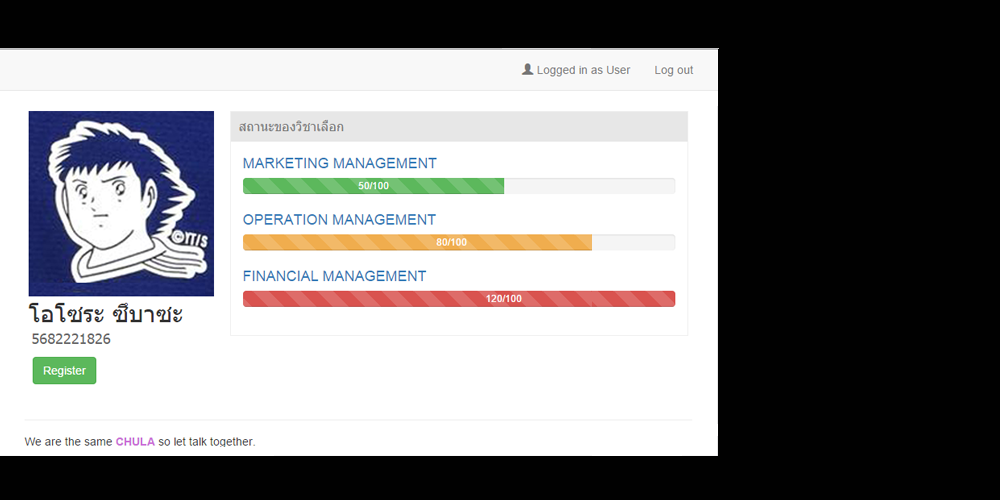
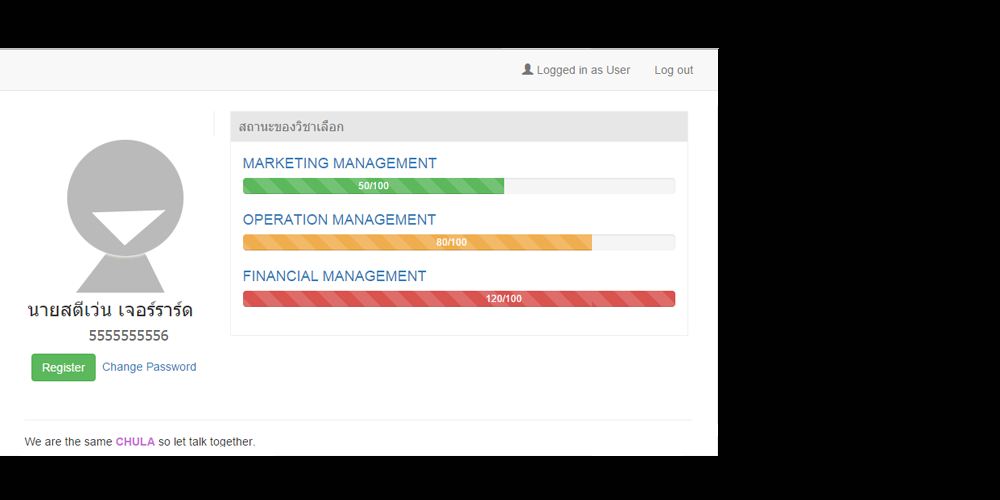
-Add 'Subject_id' in front of 'Subject' at 'user_dashboard.html' page -Update profile picture -Remove modal to change profile picture -Update picture at 'index.html' page

Changed region(s): [[0.031, 0.21, 0.217, 0.78]]

diff --git a/pages/user_dashboard.html b/pages/user_dashboard.html
@@ -21,19 +21,6 @@
             width:232px;
             position: relative;
         }
-        .profile_image:hover{
-            border: 1px solid #666;
-            cursor: pointer;
-        }
-        
-         .bannerChangeImage{
-            position: absolute; 
-            color: #fff; 
-            top:0; 
-            padding: 0px 5px 0px 5px; 
-            background: green;
-            display: none;
-         }
     </style>
   </head>
 
@@ -64,17 +51,15 @@
             <tr>
                 <td style='width: 250px; vertical-align:top;'>
                     <div style='font-family: Tahoma; margin-top: 5px; margin-left: 5px;'>
-                        <div class='profile_image' data-toggle="modal" data-target="#modalUploadImage">
-                            <image  src='../images/ozoraT.png' style='width:230px; height:230px;' />
-                            <div class='bannerChangeImage'>Change your image</div>
+                        <div class='profile_image'>
+                            <image  src='../images/profile.png' style='width:230px; height:230px;' />
                         </div>
-                        <span style='font-size: 30px; color: #333; line-height:40px; width: 100%; display: block;' class='studentName'>โอโซระ ซึบาซะ</span>
-                        <span style='font-size: 18px; color: #666; margin-left: 4px;' class='studentId'>5682221826</span>
-                        <br>
-                        <span style='font-size: 14px; color: #666; margin-left: 4px; margin-top:4px' data-toggle="modal" data-target="#modalChangePassword"><a href='#'>Change Password</a></span>
+                        <span style='font-size: 24px; color: #333; line-height:40px; width: 100%; display: block;' class='studentName'>โอโซระ ซึบาซะ</span>
+                        <div style='font-size: 18px; color: #666; margin-left: 4px; text-align:center;' class='studentId'></div>
                     </div>
                     <div style='padding:10px;'>
                         <input type='button' class="btn btn-success" onClick='moveToRegisterPage();' value='Register' />
+                        <div style='font-size: 14px; color: #666; margin-left: 4px; margin-top:4px; display:inline-block;' data-toggle="modal" data-target="#modalChangePassword"><a href='#'>Change Password</a></div>
                     </div>
                 </td>
                 <td style='vertical-align: top; padding: 5px;'>
@@ -95,14 +80,12 @@
             <tr>
                 <td style='width: 250px; vertical-align:top;'>
                     <div style='font-family: Tahoma; margin-top: 5px; margin-left: 5px;'>
-                        <div class='profile_image' data-toggle="modal" data-target="#modalUploadImage">
-                            <image  src='../images/ozoraT.png' style='width:230px; height:230px;' />
-                            <div class='bannerChangeImage'>Change your image</div>
+                        <div class='profile_image'>
+                            <image  src='../images/profile.png' style='width:230px; height:230px;' />
                         </div>
-                        <span style='font-size: 30px; color: #333; line-height:40px; width: 100%; display: block;' class='studentName'>โอโซระ ซึบาซะ</span>
-                        <span style='font-size: 18px; color: #666; margin-left: 4px;' class='studentId'>5682221826</span>
-                        <br>
-                        <span style='font-size: 14px; color: #666; margin-left: 4px; margin-top:4px' data-toggle="modal" data-target="#modalChangePassword"><a href='#'>Change Password</a></span>
+                        <span style='font-size: 24px; color: #333; line-height:40px; width: 100%; display: block;' class='studentName'>โอโซระ ซึบาซะ</span>
+                        <div style='font-size: 18px; color: #666; margin-left: 4px; text-align: center' class='studentId'></div>
+                        <div style='font-size: 14px; color: #666; margin-left: 4px; margin-top:4px; text-align: center;' data-toggle="modal" data-target="#modalChangePassword"><a href='#'>Change Password</a></div>
                     </div>
                 </td>
                 <td style='vertical-align: top; padding: 5px;'>
@@ -111,7 +94,6 @@
                           <h3 class="panel-title">สรุปผลการเลือกวิชา</h3>
                         </div>        
                         <div class="panel-body" id="appendSubjectResult">
-                        
                         </div>
                     </div>
                 </td>
@@ -123,14 +105,12 @@
             <tr>
                 <td style='width: 250px; vertical-align:top;'>
                     <div style='font-family: Tahoma; margin-top: 5px; margin-left: 5px;'>
-                        <div class='profile_image' data-toggle="modal" data-target="#modalUploadImage">
-                            <image  src='../images/ozoraT.png' style='width:230px; height:230px;' />
-                            <div class='bannerChangeImage'>Change your image</div>
+                        <div class='profile_image'>
+                            <image  src='../images/profile.png' style='width:230px; height:230px;' />
                         </div>
-                        <span style='font-size: 30px; color: #333; line-height:40px; width: 100%; display: block;' class='studentName'>โอโซระ ซึบาซะ</span>
-                        <span style='font-size: 18px; color: #666; margin-left: 4px;' class='studentId'>5682221826</span>
-                        <br>
-                        <span style='font-size: 14px; color: #666; margin-left: 4px; margin-top:4px' data-toggle="modal" data-target="#modalChangePassword"><a href='#'>Change Password</a></span>
+                        <span style='font-size: 24px; color: #333; line-height:40px; width: 100%; display: block;' class='studentName'>โอโซระ ซึบาซะ</span>
+                        <div style='font-size: 18px; color: #666; margin-left: 4px; text-align: center;' class='studentId'></div>
+                        <div style='font-size: 14px; color: #666; margin-left: 4px; margin-top:4px; text-align: center;' data-toggle="modal" data-target="#modalChangePassword"><a href='#'>Change Password</a></div>
                     </div>
                 </td>
                 <td style='vertical-align: top; padding: 5px;'>
@@ -143,33 +123,6 @@
             </tr>
         </table>
         
-        <!-- MODAL UPLOAD IMAGE -->
-        <div class="modal fade" id="modalUploadImage" tabindex="-1" role="dialog" aria-labelledby="myModalLabel" aria-hidden="true">
-          <div class="modal-dialog">
-            <div class="modal-content">
-              <div class="modal-header">
-                <button type="button" class="close" data-dismiss="modal" aria-label="Close"><span aria-hidden="true">&times;</span></button>
-                <h4 class="modal-title" id="myModalLabel" style='font-weight:bold'>Upload your image</h4>
-              </div>
-              <div class="modal-body" style='text-align:center'>
-                    <div class="fileinput fileinput-new" data-provides="fileinput">
-                      <div class="fileinput-new thumbnail" style="width: 230px; height: 230px; background:#efefef">
-                      W230 x H230
-                      </div>
-                      <div class="fileinput-preview fileinput-exists thumbnail" style="max-width: 230px; max-height: 230px;"></div>
-                      <div>
-                        <span class="btn btn-default btn-file"><span class="fileinput-new">Select image</span><span class="fileinput-exists">Change</span><input type="file" name="..."></span>
-                        <a href="#" class="btn btn-default fileinput-exists" data-dismiss="fileinput">Remove</a>
-                      </div>
-                    </div>
-              </div>
-              <div class="modal-footer">
-                <button type="button" class="btn btn-primary" data-dismiss="modal">Confirm</button>
-              </div>
-            </div>
-          </div>
-        </div>
-
         <!-- MODAL CHANGE PASSWORD -->
         <div class="modal fade" id="modalChangePassword" tabindex="-1" role="dialog" aria-labelledby="myModalLabel" aria-hidden="true">
           <div class="modal-dialog">
@@ -224,15 +177,6 @@
         var student_id = '';
 
         $(document).ready(function () {
-            $('.profile_image').hover( 
-                function(){
-                        $('.bannerChangeImage').css('display','block');
-                }, 
-                function(){
-                        $('.bannerChangeImage').css('display','none');
-                }
-            );
-            //
             getUserInformation( window.location.search.split('?id=')[1] );
         });
         //
@@ -273,7 +217,7 @@
                                 aElement.setAttribute('data-parent', '#accordion');
                                 aElement.setAttribute('href', '#collapse' + i );
                                 aElement.style.fontSize = '18px';
-                                aElement.innerHTML = data[2].subjectlist[i].name ;
+                                aElement.innerHTML = '[' + $.trim( data[2].subjectlist[i].subject_id ) + ']-' + data[2].subjectlist[i].name ;
                                 accordionElement.appendChild( aElement );
                                 
                                 var collapseElement = document.createElement('div');
@@ -331,7 +275,7 @@
                                 aElement.setAttribute('data-parent', '#accordion');
                                 aElement.setAttribute('href', '#collapse' + i );
                                 aElement.style.fontSize = '18px';
-                                aElement.innerHTML = data[2].subjectlist[i].name ;
+                                aElement.innerHTML = '[' + $.trim( data[2].subjectlist[i].subject_id ) + ']-' + data[2].subjectlist[i].name ;
                                 accordionElement.appendChild( aElement );
                                 
                                 var collapseElement = document.createElement('div');

diff --git a/index.html b/index.html
@@ -63,7 +63,7 @@
             <div class="active item">
                 <div style='color: #fff; margin-left: 20px;'>
                     <div style='font-size:30px; margin-top:60px; margin-left:20px; font-family: inherit'>Welcome, Y-Ex :)</div>
-                    <div style='font-size: 18px; margin-top: 10px; margin-left:20px; margin-right: 10px;'>สู่ระบบช่วยในการลงทะเบียนวิชาเลือกจ้า.. </div>
+                    <div style='font-size: 18px; margin-top: 10px; margin-left:20px; margin-right: 10px;'>สู่ระบบช่วยลงทะเบียนวิชาเลือก.. </div>
                     <div style='margin-top:60px;'><img src='' /></div>
                 </div>
             </div>
